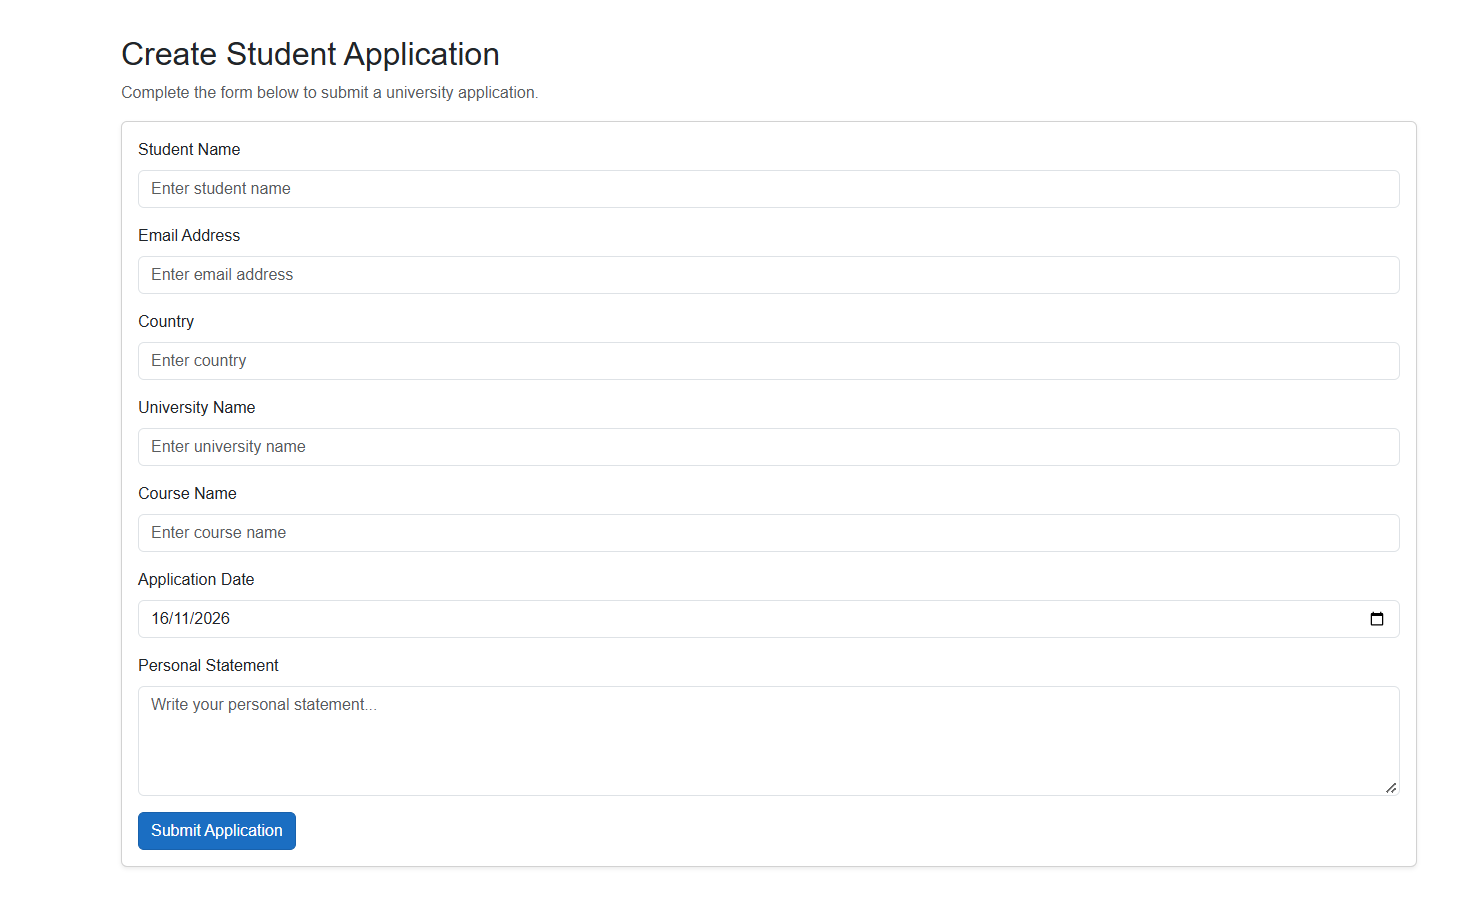
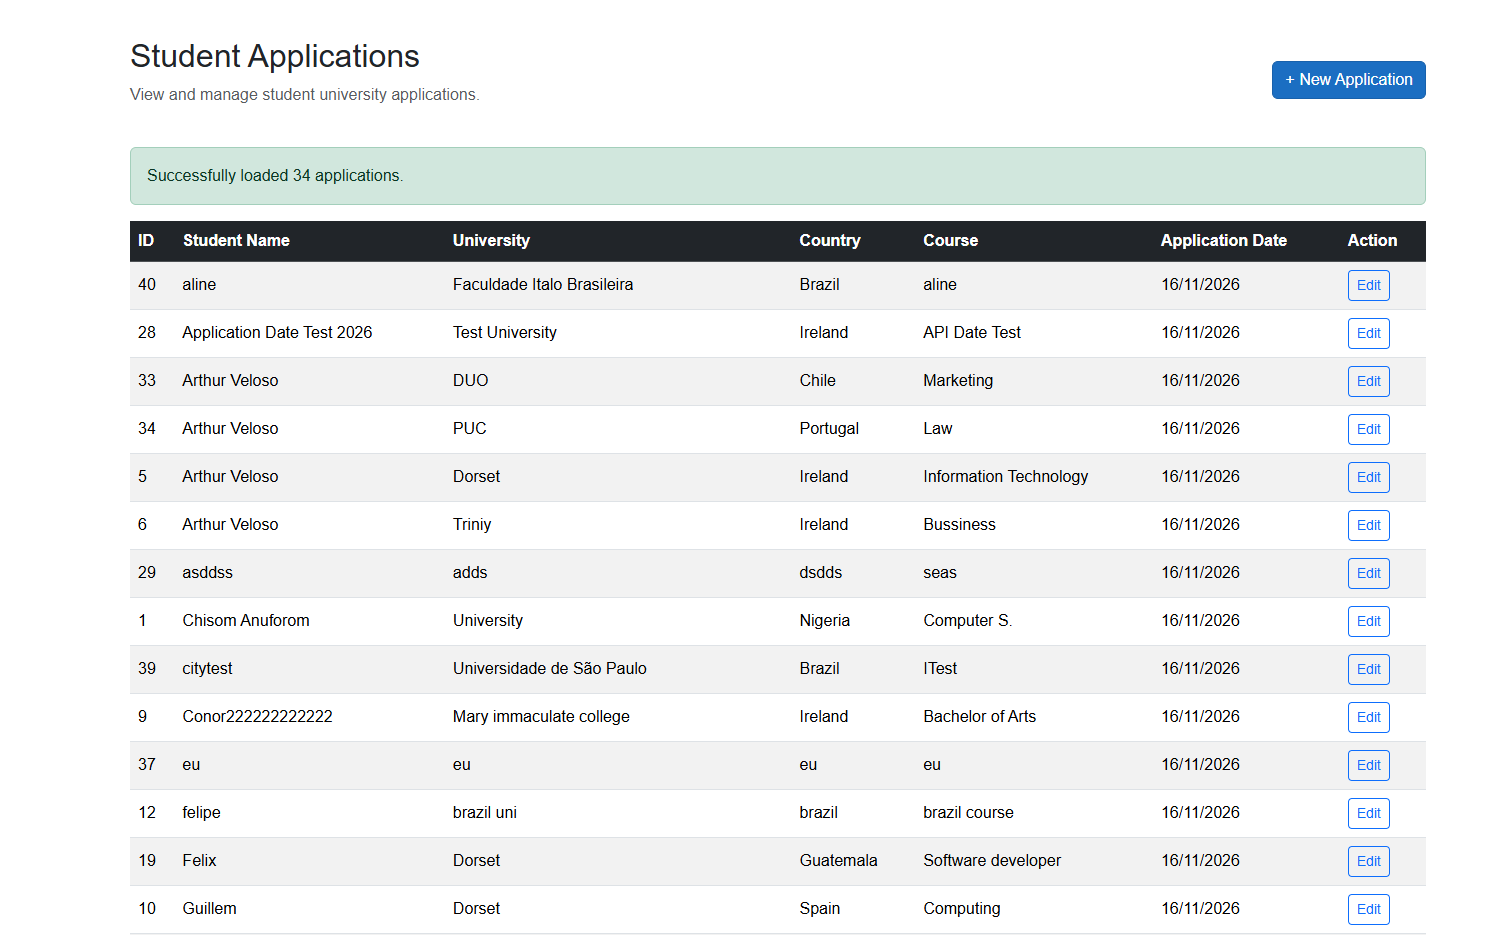
adjusting imgs

diff --git a/README.md b/README.md
@@ -108,15 +108,15 @@
 
 **Screenshot 8   Create Application Form**
 
-![Create Application Screenshot](UniversityPortal/Screenshots/Student-application.png)
+![Create Application Screenshot](UniversityPortal/Screenshots/Create-application.png)
 
 **Screenshot 9   Form Validation**
 
-![Form Validation Screenshot](UniversityPortal/Screenshots/Application-form)
+![Form Validation Screenshot](UniversityPortal/Screenshots/Form-validation.png)
 
 **Screenshot 10   Successful Application Submission**
 
-![Application Submission Screenshot](UniversityPortal/Screenshots/Application-sucessfull.png)
+![Application Submission Screenshot](UniversityPortal/Screenshots/Application-successfull.png)
 
 ---
 
